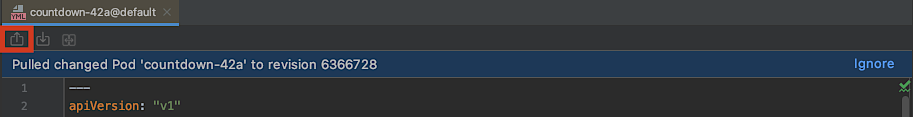
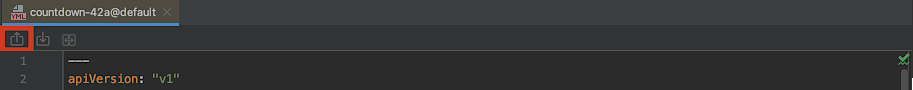
release 1.0.0 (#608) (#609)
* release 1.0.0 (#608)

diff --git a/README.md b/README.md
@@ -18,8 +18,9 @@ It is available for install from the [JetBrains Marketplace](https://plugins.jet
  - Edit Kubernetes resource manifests and apply them to your cluster
  - View Kubernetes and OpenShift clusters in an explorer tree view
  - Tree View supports dynamic update of K8s resources
- - Allow Push and Pull Feature to keep the editor in sync with the Kubernetes resource
- - Support Creation and Deletion of new Kubernetes resources on Cluster
+ - Push and Pull Feature to keep the editor in sync with the Kubernetes resource
+ - Allows users to Push multiple resources in an editor to create several resources at once.
+ - Support Creation and Deletion of Kubernetes resources on Cluster
  - Navigate into Kubernetes workloads, services, pods and nodes
  - Switching contexts and namespaces within Kubernetes
  - Follow logs from the connected cluster resource
@@ -79,7 +80,7 @@ There is a `Push` button available in the editor toolbar to make the action more
 ![editor toolbar push](images/editor-toolbar-push.png)
 
 Alternatively the editor notifies you whenever you may push your content to the cluster.
-Clicking the "Push" link in the editor notification saves your editor to the cluster.
+Clicking the `Push` link in the editor notification saves your file changes on to the cluster.
 
 ![editor push](images/editor-push.png)
 
@@ -88,16 +89,10 @@ The new resource will then appear in the resource tree that's displayed in our t
 
 #### Pull (Load) from Cluster
 
-The editor also notifies you if your resource has changed on the cluster.
-The notification informs you of a newer version that is available on the cluster and allows you to `Pull` it into your editor.
+You can `Pull` the resource from the cluster into the local file opened in the editor. 
+Clicking on the `Pull` icon in the toolbar replaces the content of your local file in the editor with the version that exists on the cluster.
 
-![editor pulled](images/editor-pulled.png)
-
-Competing changes in your editor and on the cluster get notified with 2 options:
-You can either overwrite the cluster by pushing the editor to the cluster.
-Alternatively you can replace your local version with the one on the cluster and pull it.
-
-![editor pull or push](images/editor-pull-push.png)
+![editor pull](images/editor-toolbar-pull.png)
 
 #### Diff
 
